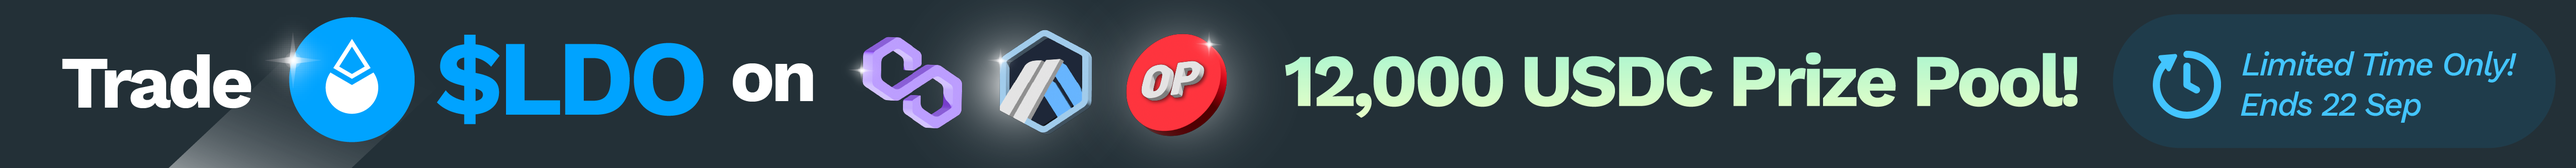
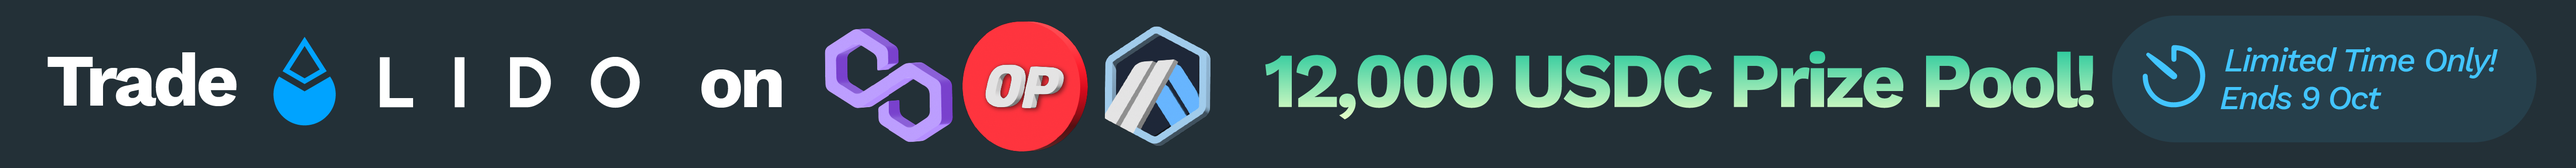
Change Time + Img

Changed region(s): [[0.0, 0.0898, 0.9975, 1.0]]

diff --git a/src/components/Banner/index.tsx b/src/components/Banner/index.tsx
@@ -108,21 +108,21 @@ function Banner({
 
   const ALL_BANNERS = useMemo(
     () => [
-      // {
-      //   // KyberSwap Trading Campaign Lido
-      //   id: 'kyberSwap-trading-campaign-Lido',
-      //   name: 'KyberSwap Trading Campaign Lido',
-      //   start: new Date('2022-09-15T11:00:00.000Z'),
-      //   end: new Date('2022-09-29T23:59:59.000Z'),
-      //   img: isInModal
-      //     ? KyberSwapTradingCampaignMobile
-      //     : w > 768
-      //     ? KyberSwapTradingCampaignDesktop
-      //     : w > 500
-      //     ? KyberSwapTradingCampaignTablet
-      //     : KyberSwapTradingCampaignMobile,
-      //   link: 'https://kyberswap.com/campaigns/kyberswap-trading-campaigns-with-lidoldo-token-7&utm_source=kyberswap&utm_medium=banner&utm_campaign=lidotrading&utm_content=lidotrading_onsite',
-      // },
+      {
+        // KyberSwap Trading Campaign Lido
+        id: 'kyberSwap-trading-campaign-Lido',
+        name: 'KyberSwap Trading Campaign Lido',
+        start: new Date('2022-09-15T11:03:00.000Z'),
+        end: new Date('2022-10-09T03:00:00.000Z'),
+        img: isInModal
+          ? KyberSwapTradingCampaignMobile
+          : w > 768
+          ? KyberSwapTradingCampaignDesktop
+          : w > 500
+          ? KyberSwapTradingCampaignTablet
+          : KyberSwapTradingCampaignMobile,
+        link: 'https://kyberswap.com/campaigns/kyberswap-trading-campaigns-with-lido-finance-8?networkId=137&utm_source=kyberswap&utm_medium=banner&utm_campaign=lidotradingcontest&utm_content=lidotrading_onsite',
+      },
       {
         // KyberSwap Arbitrum Lido Farm
         id: 'KyberSwap-Arbitrum-Lido-Farm',
